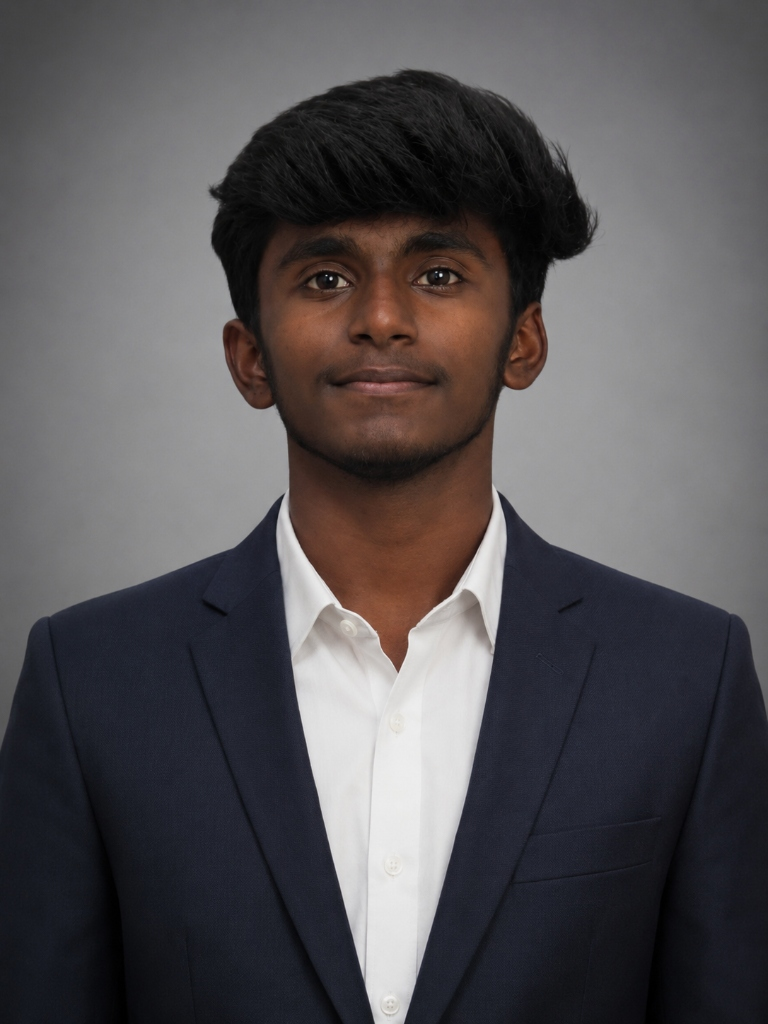
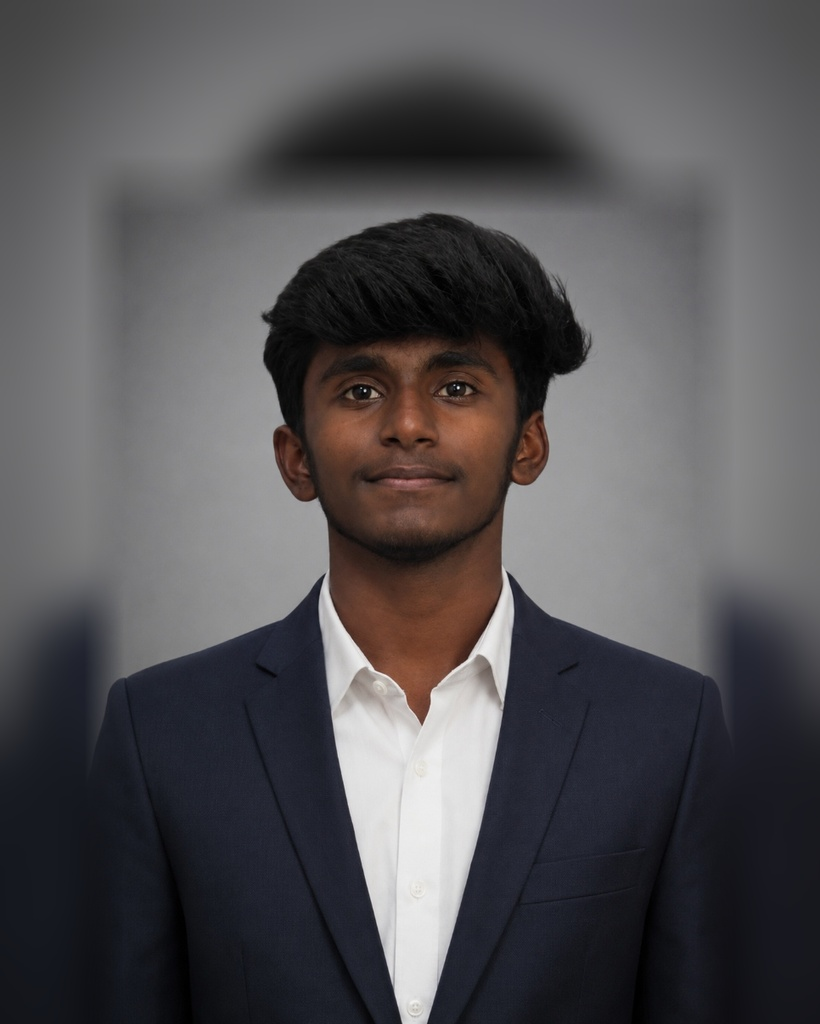
fix(ui): re-frame Solairaj R portrait to match Vishal K and remove sub-descriptions under roles

diff --git a/src/app/page.tsx b/src/app/page.tsx
@@ -1362,7 +1362,6 @@ export default function HomePage() {
                   <div className="space-y-0.5">
                     <h4 className="font-black text-base sm:text-lg text-[#002137]">Vishal K</h4>
                     <p className="text-xs sm:text-sm font-extrabold text-[#004b79]">Software Team</p>
-                    <p className="text-xs text-slate-500 font-medium">Full Stack Architecture &amp; Platform</p>
                   </div>
                 </div>
 
@@ -1378,7 +1377,6 @@ export default function HomePage() {
                   <div className="space-y-0.5">
                     <h4 className="font-black text-base sm:text-lg text-[#002137]">Solairaj R</h4>
                     <p className="text-xs sm:text-sm font-extrabold text-[#004b79]">Software Team</p>
-                    <p className="text-xs text-slate-500 font-medium">Frontend &amp; UX Systems</p>
                   </div>
                 </div>
 
@@ -1394,7 +1392,6 @@ export default function HomePage() {
                   <div className="space-y-0.5">
                     <h4 className="font-black text-base sm:text-lg text-[#002137]">Abinaya B</h4>
                     <p className="text-xs sm:text-sm font-extrabold text-[#b89047]">AI Team</p>
-                    <p className="text-xs text-slate-500 font-medium">AI Pedagogical Models &amp; Diagnostics</p>
                   </div>
                 </div>
 
@@ -1410,7 +1407,6 @@ export default function HomePage() {
                   <div className="space-y-0.5">
                     <h4 className="font-black text-base sm:text-lg text-[#002137]">Arunkarthick K</h4>
                     <p className="text-xs sm:text-sm font-extrabold text-[#b89047]">AI Team</p>
-                    <p className="text-xs text-slate-500 font-medium">Machine Learning &amp; Adaptive Tutoring</p>
                   </div>
                 </div>
 
